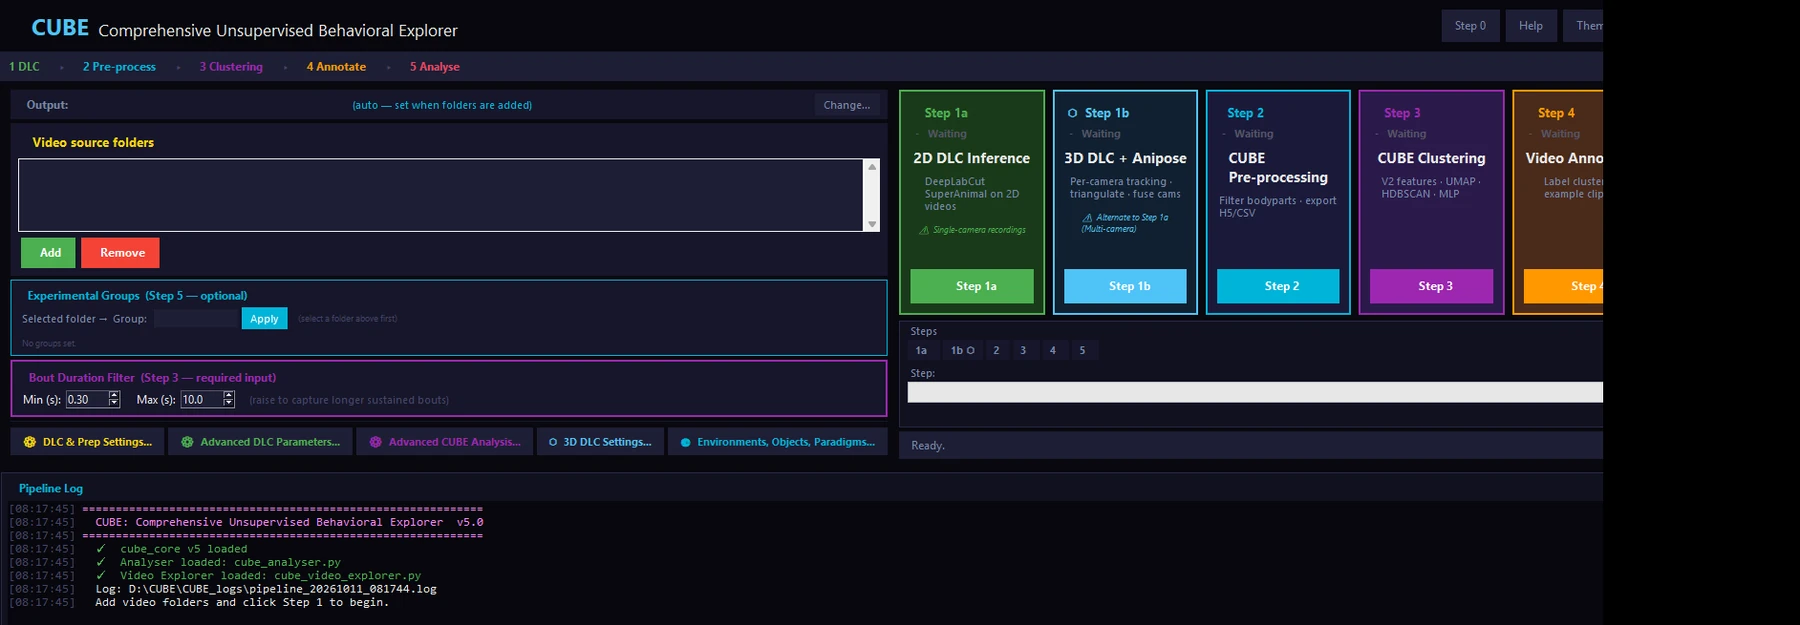
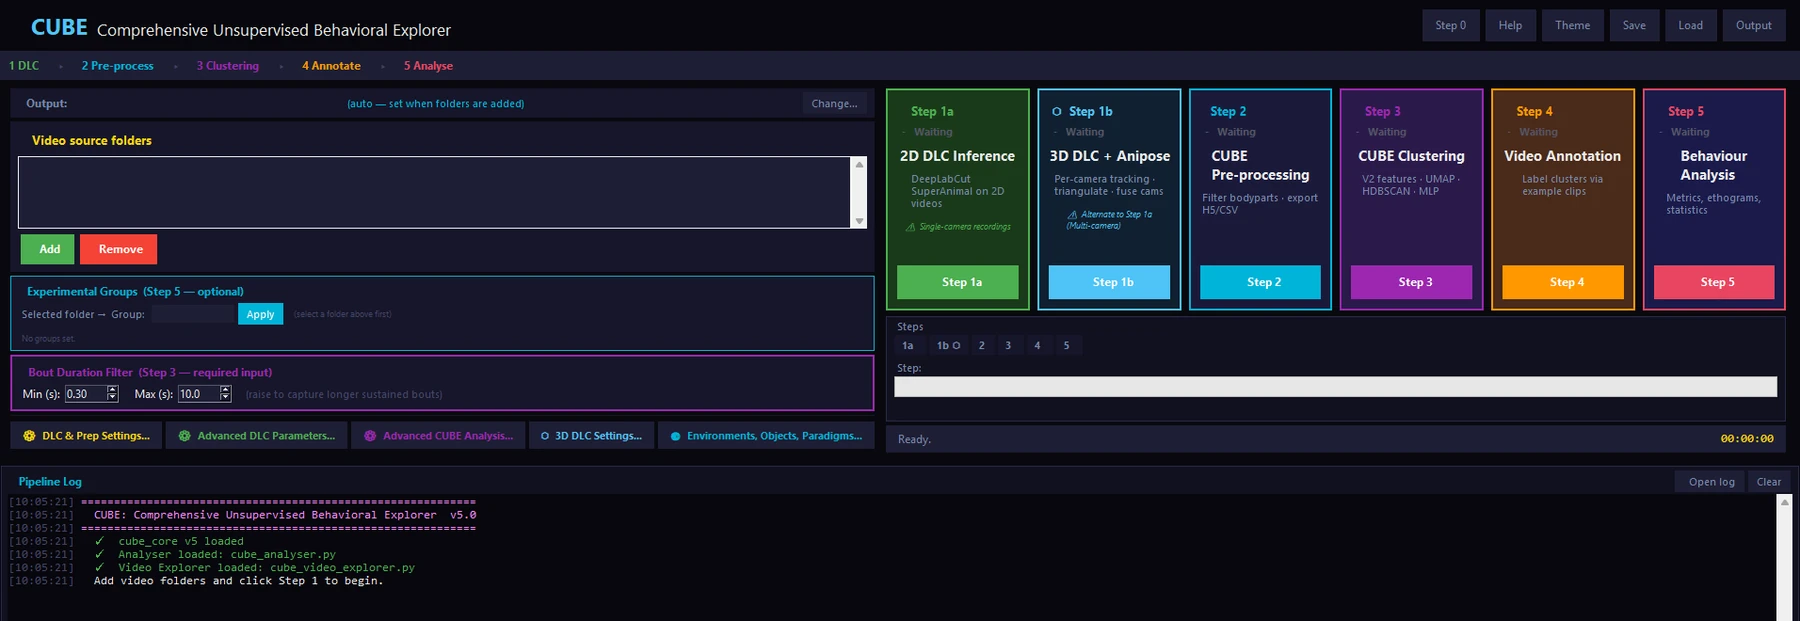
fix: full main-window screenshot (no cropping, no local paths); autoplay the overview video

diff --git a/gallery/index.html b/gallery/index.html
@@ -103,8 +103,8 @@
       <figure class="shot" data-t="sequence"><img src="../assets/img/sideview-dwell-times.webp" width="1800" height="443" loading="lazy" alt="Dwell-time distributions for every state"><figcaption><b>Dwell times</b>How long each behavioural state lasts.</figcaption></figure>
       <figure class="shot" data-t="umap"><img src="../assets/img/sideview-cluster-validity.webp" width="1800" height="978" loading="lazy" alt="Cluster silhouette diagram and HDBSCAN condensed tree"><figcaption><b>Cluster validity</b>Per-cluster silhouette and the HDBSCAN condensed tree show which clusters are tight and which are weak.</figcaption></figure>
       <figure class="shot" data-t="umap"><img src="../assets/img/sideview-seed-stability.webp" width="1800" height="698" loading="lazy" alt="Cluster count stability and pairwise agreement across random seeds"><figcaption><b>Seed stability</b>Cluster counts and pairwise agreement across random seeds.</figcaption></figure>
-      <figure class="shot" data-t="gui"><img src="../assets/img/gui-main-light.webp" width="1800" height="626" loading="lazy" alt="The CUBE main window in light mode"><figcaption><b>Main window (light)</b>Video folders on the left, the five step cards on the right and the pipeline log below.</figcaption></figure>
-      <figure class="shot" data-t="gui"><img src="../assets/img/gui-main-dark.webp" width="1800" height="626" loading="lazy" alt="The CUBE main window in dark mode"><figcaption><b>Main window (dark)</b>The same window with the dark theme.</figcaption></figure>
+      <figure class="shot" data-t="gui"><img src="../assets/img/gui-main-light.webp" width="1800" height="621" loading="lazy" alt="The CUBE main window in light mode"><figcaption><b>Main window (light)</b>Video folders on the left, the five step cards on the right and the pipeline log below.</figcaption></figure>
+      <figure class="shot" data-t="gui"><img src="../assets/img/gui-main-dark.webp" width="1800" height="621" loading="lazy" alt="The CUBE main window in dark mode"><figcaption><b>Main window (dark)</b>The same window with the dark theme.</figcaption></figure>
       <figure class="shot" data-t="gui"><img src="../assets/img/gui-analyser-dark.webp" width="1600" height="520" loading="lazy" alt="The CUBE analyser window with its analysis tabs"><figcaption><b>Analyser</b>Live preview, full analysis, metrics, unbiased analytics, behaviour explorer, Group Predictor and paradigm results.</figcaption></figure>
       <figure class="shot" data-t="gui"><img src="../assets/img/gui-adv-cube-light.webp" width="520" height="760" loading="lazy" alt="Advanced CUBE analysis parameters window"><figcaption><b>Advanced CUBE analysis parameters</b>Feature, UMAP, HDBSCAN, classifier and HMM settings with publication defaults pre-set.</figcaption></figure>
       <figure class="shot" data-t="gui"><img src="../assets/img/gui-adv-dlc-dark.webp" width="540" height="720" loading="lazy" alt="Advanced DLC parameters window"><figcaption><b>Advanced DLC parameters</b>Model type, SuperAnimal settings and detection thresholds.</figcaption></figure>

diff --git a/guide/installation/index.html b/guide/installation/index.html
@@ -136,7 +136,7 @@ conda activate CUBE
 <hr />
 <h2 id="launching-cube">Launching CUBE<a class="anchor" href="#launching-cube" aria-label="Link to this section">#</a></h2>
 <p>Start CUBE with the Python of the <code>CUBE</code> environment:</p>
-<figure class="doc-fig "><img src="../../assets/img/gui-main-light.webp" width="1800" height="625" loading="lazy" alt="The CUBE main window with step cards for DLC, pre-processing, clustering, annotation and analysis" class="theme-img theme-img--light"><img src="../../assets/img/gui-main-dark.webp" width="1800" height="625" loading="lazy" alt="The CUBE main window with step cards for DLC, pre-processing, clustering, annotation and analysis" class="theme-img theme-img--dark"><figcaption>The CUBE main window. The five steps run left to right across the cards; progress and messages appear in the pipeline log.</figcaption></figure>
+<figure class="doc-fig "><img src="../../assets/img/gui-main-light.webp" width="1800" height="621" loading="lazy" alt="The CUBE main window with step cards for DLC, pre-processing, clustering, annotation and analysis" class="theme-img theme-img--light"><img src="../../assets/img/gui-main-dark.webp" width="1800" height="621" loading="lazy" alt="The CUBE main window with step cards for DLC, pre-processing, clustering, annotation and analysis" class="theme-img theme-img--dark"><figcaption>The CUBE main window. The five steps run left to right across the cards; progress and messages appear in the pipeline log.</figcaption></figure>
 
 <pre><code class="language-bat">&quot;C:\Users\&lt;yourname&gt;\anaconda3\envs\CUBE\python.exe&quot; cube.py
 </code></pre>

diff --git a/get-started/index.html b/get-started/index.html
@@ -113,7 +113,7 @@ python cube_analyser.py
 <span class="c"># cluster annotator (Step 4 only)</span>
 python cube_video_explorer.py</code></pre>
 
-    <figure class="doc-fig"><img class="theme-img theme-img--light" src="../assets/img/gui-main-light.webp" width="1800" height="626" loading="lazy" alt="The CUBE main window"><img class="theme-img theme-img--dark" src="../assets/img/gui-main-dark.webp" width="1800" height="626" loading="lazy" alt="The CUBE main window in dark mode"><figcaption>The CUBE main window after launch. Add your video folders on the left, then work through the step cards on the right. Use the Theme button to switch between light and dark.</figcaption></figure>
+    <figure class="doc-fig"><img class="theme-img theme-img--light" src="../assets/img/gui-main-light.webp" width="1800" height="621" loading="lazy" alt="The CUBE main window"><img class="theme-img theme-img--dark" src="../assets/img/gui-main-dark.webp" width="1800" height="621" loading="lazy" alt="The CUBE main window in dark mode"><figcaption>The CUBE main window after launch. Add your video folders on the left, then work through the step cards on the right. Use the Theme button to switch between light and dark.</figcaption></figure>
     <h2 id="first-run">4. Your first run</h2>
     <div class="step-rail">
       <a href="#f1"><b class="s1">1</b>Record</a><span></span>

diff --git a/guide/quick-start/index.html b/guide/quick-start/index.html
@@ -120,7 +120,7 @@
 <li>Your videos are in one folder (<code>.mp4</code>, <code>.avi</code> or <code>.mov</code>). Use the same camera position for animals you want to compare.</li>
 <li>For pose tracking you need a GPU. If you already have DeepLabCut output files (H5 or CSV), you can skip Step 1.</li>
 </ul>
-<figure class="doc-fig "><img src="../../assets/img/gui-main-light.webp" width="1800" height="625" loading="lazy" alt="The CUBE main window with step cards" class="theme-img theme-img--light"><img src="../../assets/img/gui-main-dark.webp" width="1800" height="625" loading="lazy" alt="The CUBE main window with step cards" class="theme-img theme-img--dark"><figcaption>The CUBE main window. Add video folders on the left, then run the step cards on the right from left to right.</figcaption></figure>
+<figure class="doc-fig "><img src="../../assets/img/gui-main-light.webp" width="1800" height="621" loading="lazy" alt="The CUBE main window with step cards" class="theme-img theme-img--light"><img src="../../assets/img/gui-main-dark.webp" width="1800" height="621" loading="lazy" alt="The CUBE main window with step cards" class="theme-img theme-img--dark"><figcaption>The CUBE main window. Add video folders on the left, then run the step cards on the right from left to right.</figcaption></figure>
 
 <h2 id="steps">The ten steps</h2>
 <ol class="steps">

diff --git a/index.html b/index.html
@@ -97,8 +97,8 @@
     <div class="hero__gui reveal">
       <div class="window">
         <div class="window__bar"><i></i><i></i><i></i><span class="window__title">CUBE: Comprehensive Unsupervised Behavioral Explorer</span></div>
-        <img class="theme-img theme-img--light" src="assets/img/gui-main-light.webp" width="1800" height="626" alt="The CUBE main window with step cards for DLC, pre-processing, clustering, annotation and analysis">
-        <img class="theme-img theme-img--dark" src="assets/img/gui-main-dark.webp" width="1800" height="626" alt="The CUBE main window in dark mode">
+        <img class="theme-img theme-img--light" src="assets/img/gui-main-light.webp" width="1800" height="621" alt="The CUBE main window with step cards for DLC, pre-processing, clustering, annotation and analysis">
+        <img class="theme-img theme-img--dark" src="assets/img/gui-main-dark.webp" width="1800" height="621" alt="The CUBE main window in dark mode">
       </div>
     </div>
   </div>

diff --git a/video/index.html b/video/index.html
@@ -86,7 +86,7 @@
     <div class="player reveal">
       <div class="window">
         <div class="window__bar"><i></i><i></i><i></i><span class="window__title">CUBE overview</span></div>
-        <video id="overview" controls muted playsinline preload="none" poster="../assets/img/video-poster.jpg" aria-label="Overview of the five CUBE steps: record, track, discover, annotate, analyse">
+        <video id="overview" controls muted autoplay playsinline preload="auto" poster="../assets/img/video-poster.jpg" aria-label="Overview of the five CUBE steps: record, track, discover, annotate, analyse">
           <source src="../assets/video/cube-overview.mp4" type="video/mp4">
           Your browser does not play embedded video. <a href="../assets/video/cube-overview.mp4">Download the video</a>.
         </video>

diff --git a/assets/js/site.js b/assets/js/site.js
@@ -203,6 +203,8 @@
 
   /* video page: chapter buttons seek the player */
   var player = $("#overview");
+  if (player && reduce) { player.removeAttribute("autoplay"); player.pause(); }
+  else if (player) { var ap = player.play(); if (ap && ap.catch) ap.catch(function () {}); }
   if (player) $$(".chapter").forEach(function (b) {
     b.addEventListener("click", function () {
       var t = parseFloat(b.getAttribute("data-t")) || 0;
